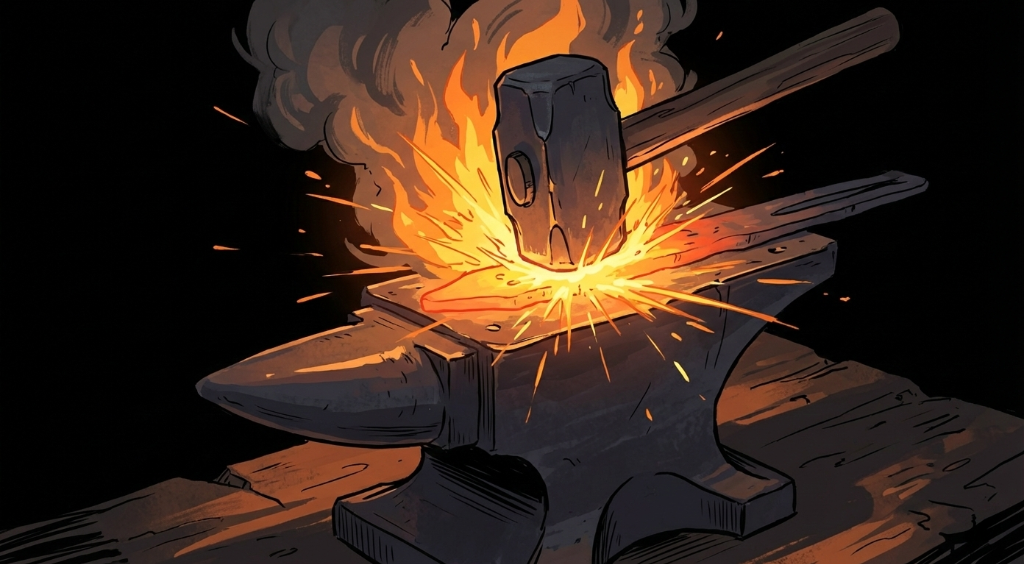
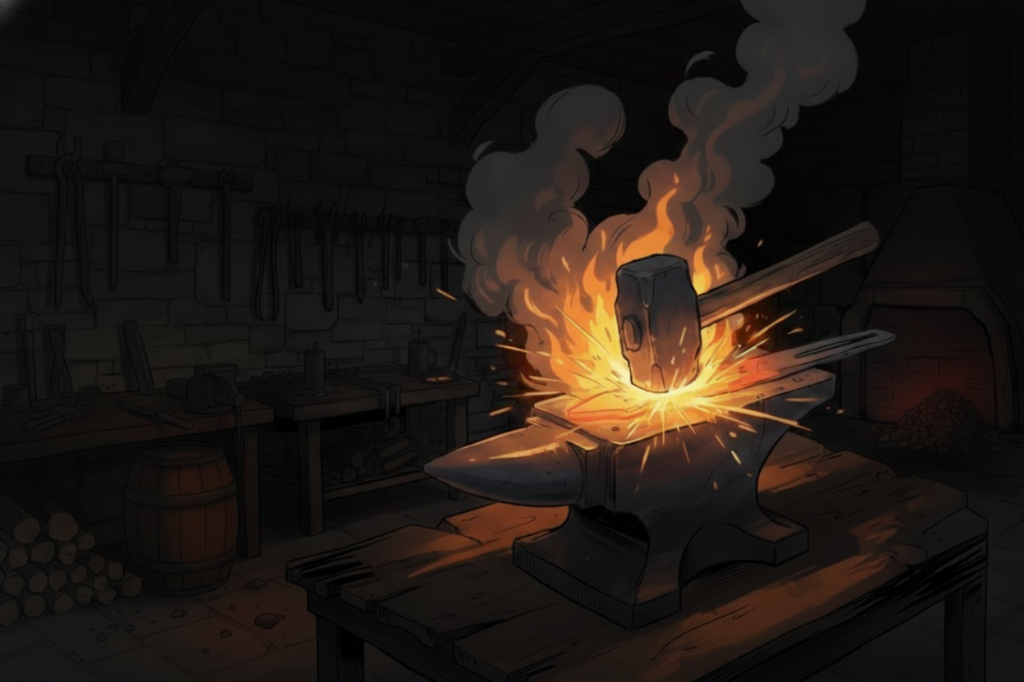
Feat: Update the background image of the deck-building page.

diff --git a/style.css b/style.css
@@ -887,21 +887,9 @@ body::before {
 #deck-builder {
     padding: 20px;
     box-sizing: border-box;
-    background: url('img/forge_bg.png') no-repeat center center fixed;
-    background-size: cover;
+    background: url('img/forge_bg.png') no-repeat center center;
+    background-size: 100% 100%;
     position: relative;
-}
-
-#deck-builder::before {
-    content: '';
-    position: absolute;
-    top: 0;
-    left: 0;
-    right: 0;
-    bottom: 0;
-    background: rgba(0, 0, 0, 0.5);
-    /* Overlay to ensure card readability */
-    z-index: 0;
 }
 
 #deck-builder>* {
